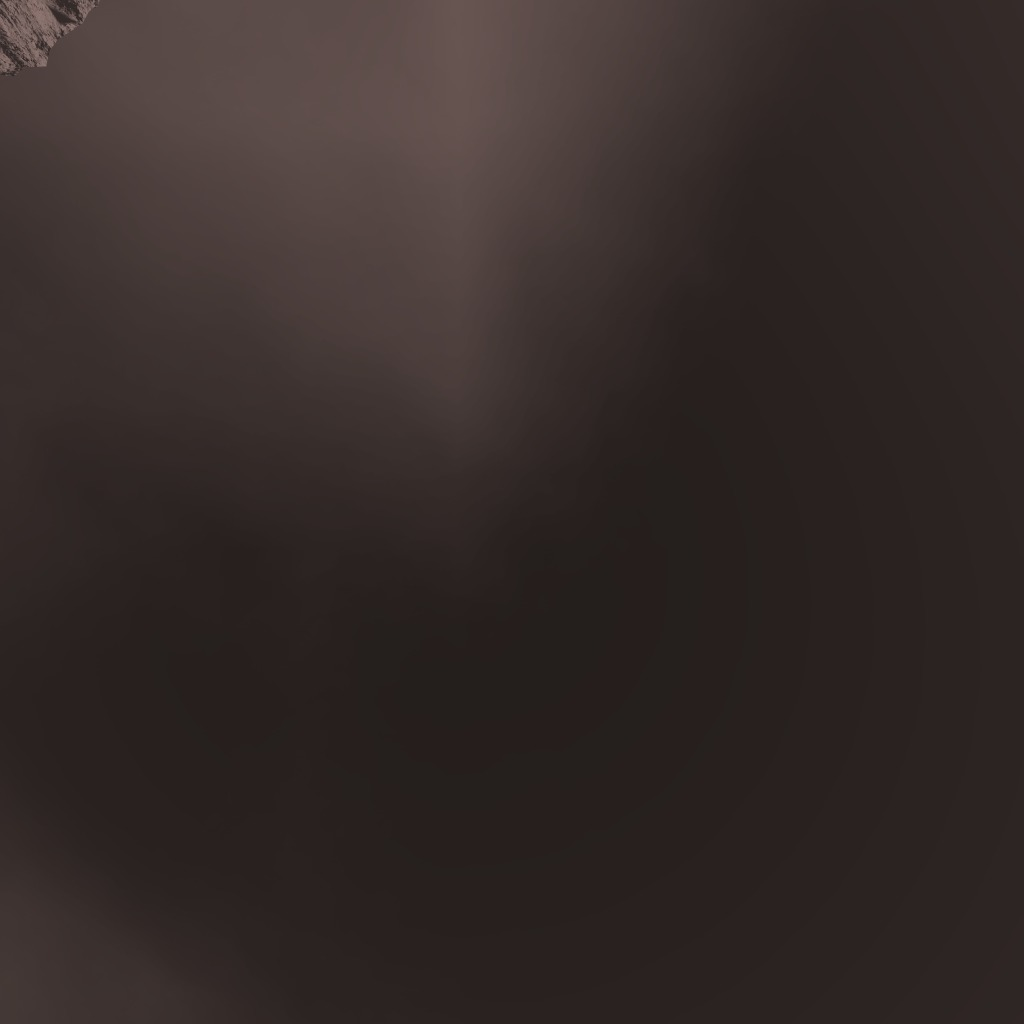
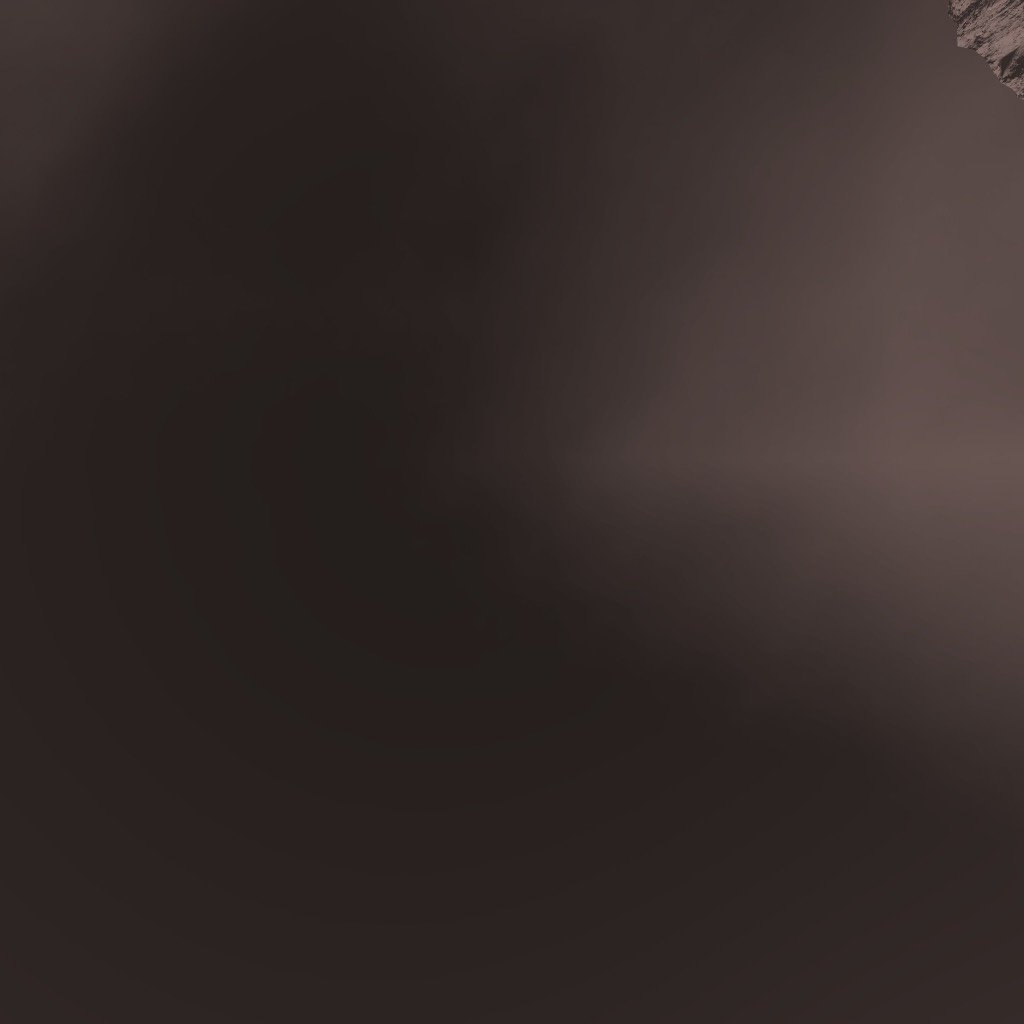
Tries a different skybox and fixes issue where sky wasn't lining up

diff --git a/public/js/skybox.js b/public/js/skybox.js
@@ -59,13 +59,21 @@ class BasicWorldDemo {
     
 
     const loader = new THREE.CubeTextureLoader();
+    // const texture = loader.load([
+    //   "/images/skybox1/cocoa_lf.jpg",
+    //   "/images/skybox1/cocoa_rt.jpg",
+    //   "/images/skybox1/cocoa_up.jpg", // 3
+    //   "/images/skybox1/cocoa_dn.jpg", // 4
+    //   "/images/skybox1/cocoa_ft.jpg",
+    //   "/images/skybox1/cocoa_bk.jpg",
+    // ]);
     const texture = loader.load([
-      "/images/skybox1/cocoa_lf.jpg",
-      "/images/skybox1/cocoa_rt.jpg",
-      "/images/skybox1/cocoa_up.jpg", // 3
-      "/images/skybox1/cocoa_dn.jpg", // 4
-      "/images/skybox1/cocoa_ft.jpg",
-      "/images/skybox1/cocoa_bk.jpg",
+      "/images/skybox2/valley_lf.jpg", // 1
+      "/images/skybox2/valley_rt.jpg", // 2
+      "/images/skybox2/valley_up.jpg", // 3
+      "/images/skybox2/valley_dn.jpg", // 4
+      "/images/skybox2/valley_ft.jpg", // 5
+      "/images/skybox2/valley_bk.jpg", // 6
     ]);
     
     this._scene.background = texture;
